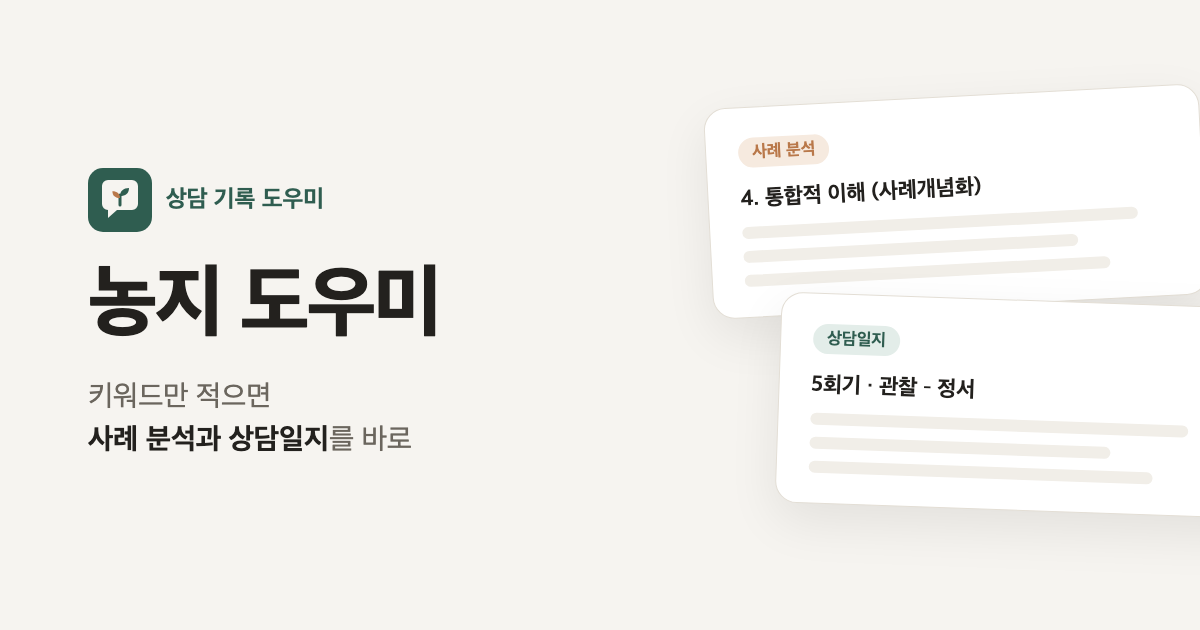
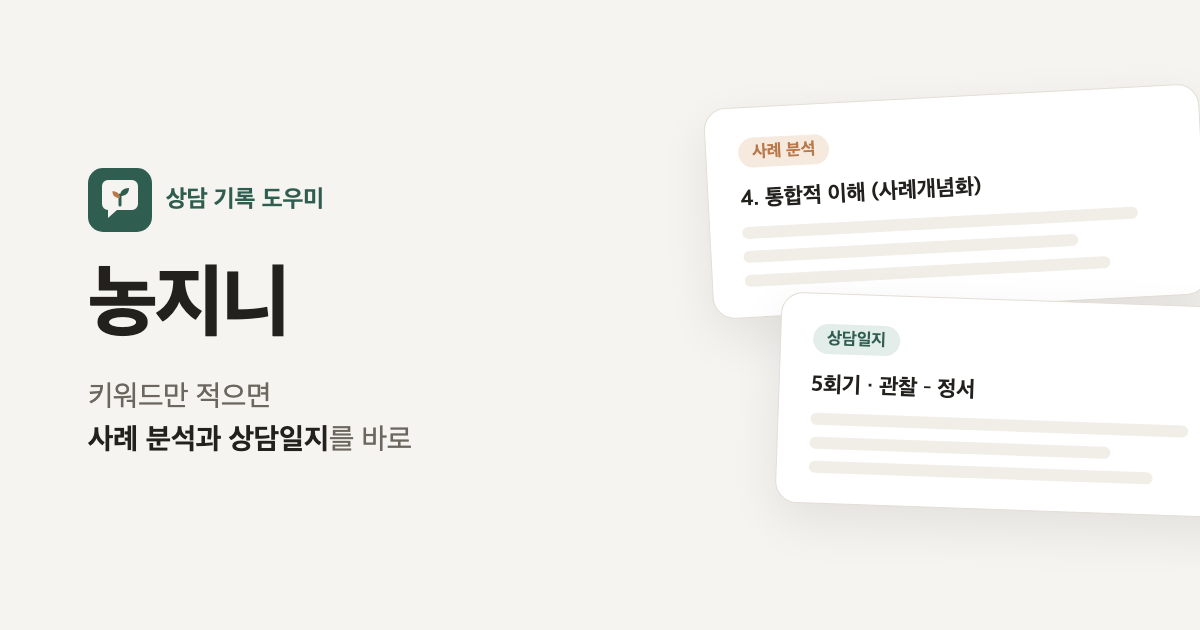
서비스명 농지니로 변경

Changed region(s): [[0.185, 0.4222, 0.37, 0.5429]]

diff --git a/index.html b/index.html
@@ -3,13 +3,13 @@
 <head>
 <meta charset="utf-8">
 <meta name="viewport" content="width=device-width, initial-scale=1">
-<title>농지 도우미</title>
+<title>농지니</title>
 <link rel="icon" href="favicon.svg" type="image/svg+xml">
 <link rel="apple-touch-icon" href="apple-touch-icon.png">
 <meta name="theme-color" content="#2F5D50">
 <meta property="og:type" content="website">
-<meta property="og:site_name" content="농지 도우미">
-<meta property="og:title" content="농지 도우미">
+<meta property="og:site_name" content="농지니">
+<meta property="og:title" content="농지니">
 <meta property="og:description" content="키워드만 적으면 사례 분석과 상담일지를 바로 만들고, 내담자별로 기록을 관리하는 상담 기록 도우미">
 <meta property="og:url" content="https://jinhong-lee.github.io/sangdam-helper/">
 <meta property="og:image" content="https://jinhong-lee.github.io/sangdam-helper/og-image.png">
@@ -17,7 +17,7 @@
 <meta property="og:image:height" content="630">
 <meta property="og:locale" content="ko_KR">
 <meta name="twitter:card" content="summary_large_image">
-<meta name="twitter:title" content="농지 도우미">
+<meta name="twitter:title" content="농지니">
 <meta name="twitter:description" content="키워드만 적으면 사례 분석과 상담일지를 바로 만들고, 내담자별로 기록을 관리하는 상담 기록 도우미">
 <meta name="twitter:image" content="https://jinhong-lee.github.io/sangdam-helper/og-image.png">
 <meta name="description" content="키워드만 적으면 사례 분석과 상담일지를 바로 만들고, 내담자별로 기록을 관리하는 상담 기록 도우미">
@@ -337,7 +337,7 @@
 <div id="loginView" class="center hidden">
   <div class="card login">
     <img class="login-logo" src="favicon.svg" alt="" width="56" height="56">
-    <h1>농지 도우미</h1>
+    <h1>농지니</h1>
     <p>키워드만 넣으면 사례 분석과 상담일지를 바로 만들어 드립니다.</p>
     <button class="gbtn" id="loginBtn">
       <svg width="18" height="18" viewBox="0 0 48 48" aria-hidden="true"><path fill="#FFC107" d="M43.6 20.5H42V20H24v8h11.3C33.7 32.7 29.2 36 24 36c-6.6 0-12-5.4-12-12s5.4-12 12-12c3.1 0 5.8 1.2 7.9 3l5.7-5.7C34 6.1 29.3 4 24 4 12.9 4 4 12.9 4 24s8.9 20 20 20 20-8.9 20-20c0-1.3-.1-2.4-.4-3.5z"/><path fill="#FF3D00" d="M6.3 14.7l6.6 4.8C14.7 15.1 19 12 24 12c3.1 0 5.8 1.2 7.9 3l5.7-5.7C34 6.1 29.3 4 24 4 16.3 4 9.7 8.3 6.3 14.7z"/><path fill="#4CAF50" d="M24 44c5.2 0 9.9-2 13.4-5.2l-6.2-5.2C29.2 35.1 26.7 36 24 36c-5.2 0-9.6-3.3-11.3-7.9l-6.5 5C9.5 39.6 16.2 44 24 44z"/><path fill="#1976D2" d="M43.6 20.5H42V20H24v8h11.3c-.8 2.2-2.2 4.2-4.1 5.6l6.2 5.2C37 39.2 44 34 44 24c0-1.3-.1-2.4-.4-3.5z"/></svg>
@@ -356,7 +356,7 @@
 <div id="appView" class="hidden">
   <header class="topbar">
     <div class="topbar-in">
-      <a class="logo" href="#/"><img src="favicon.svg" alt="" width="28" height="28">농지 도우미</a>
+      <a class="logo" href="#/"><img src="favicon.svg" alt="" width="28" height="28">농지니</a>
       <span class="viewas-badge" id="viewasBadge" hidden>👀 <b id="viewasName"></b> 화면 보는 중 · 읽기 전용 <button class="btn h32" id="viewasExit">나가기</button></span>
       <span class="user-mail" id="userMail"></span>
       <a class="btn ghost small" href="#/admin" id="adminLink" hidden>관리자</a>

diff --git a/app.js b/app.js
@@ -831,7 +831,7 @@ function exportRecords(kind) {
     type = 'application/json';
   } else {
     const line = '='.repeat(40);
-    body = `농지 도우미 기록 · ${nowStamp()} 내보냄\n내담자 ${clients.length}명 · 기록 ${records.length}건\n`;
+    body = `농지니 기록 · ${nowStamp()} 내보냄\n내담자 ${clients.length}명 · 기록 ${records.length}건\n`;
     clients.forEach((c) => {
       body += `\n${line}\n[내담자] ${c.name}\n${c.memo ? '내담자 메모: ' + c.memo + '\n' : ''}${line}\n`;
       clientRecords(c.id).slice().sort((a, b) => a.createdAt - b.createdAt).forEach((r) => {
@@ -844,7 +844,7 @@ function exportRecords(kind) {
   }
   const a = document.createElement('a');
   a.href = URL.createObjectURL(new Blob([body], { type: type + ';charset=utf-8' }));
-  a.download = `농지도우미_기록_${stamp}.${kind}`;
+  a.download = `농지니_기록_${stamp}.${kind}`;
   a.click();
   setTimeout(() => URL.revokeObjectURL(a.href), 5000);
   toast('파일을 저장했습니다');

diff --git a/WORKLOG.md b/WORKLOG.md
@@ -4,7 +4,7 @@
 
 | 구분 | 위치 | 상태 |
 |---|---|---|
-| 지금 공개 중인 버전 | `main` 브랜치 → https://jinhong-lee.github.io/sangdam-helper/ | ✅ 농지 도우미 (구글 로그인, 아동별 기록 관리, 결과 바로 생성) |
+| 지금 공개 중인 버전 | `main` 브랜치 → https://jinhong-lee.github.io/sangdam-helper/ | ✅ 농지니 (구글 로그인, 아동별 기록 관리, 결과 바로 생성) |
 | 개발용 브랜치 | `feature/login` | main과 동일. 다음 기능 개발 시 여기서 작업 후 합치기 |
 
 > 관리자: leejjinhong@gmail.com (app.js ADMINS + firestore.rules isAdmin 둘 다 수정해야 함)
@@ -56,3 +56,4 @@
 
 - 친구분이 실제로 쓰는 **상담일지 칸 이름** → `prompts/manifest.json`, `prompts/91_journal_format.md` 수정
 - 실제 Gemini 결과 품질 확인 (지금까지는 가짜 응답으로만 시험함)
+| 2026-10-22 | 서비스명 "농지 도우미" → "농지니"로 변경 (탭 제목, 로그인 화면, 상단 로고, OG 태그·OG 이미지, 내보내기 파일명 `농지니_기록_…`) |

diff --git a/README.md b/README.md
@@ -1,4 +1,4 @@
-# 농지 도우미
+# 농지니
 
 키워드만 넣으면 **사례 분석 / 상담일지**를 바로 만들어주는 웹페이지입니다.
 사용자가 등록한 구글 무료 이용 키(Gemini API)로 브라우저에서 직접 생성합니다. 입력 내용은 저장하지 않습니다.
